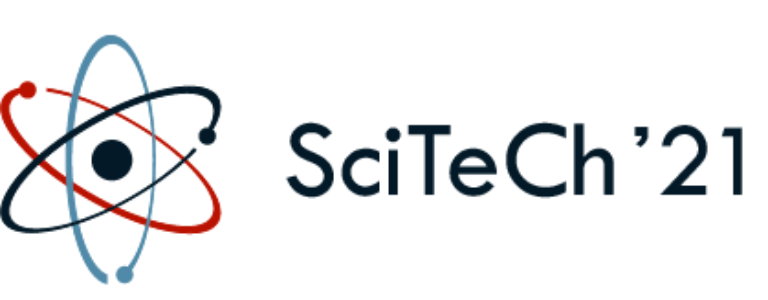
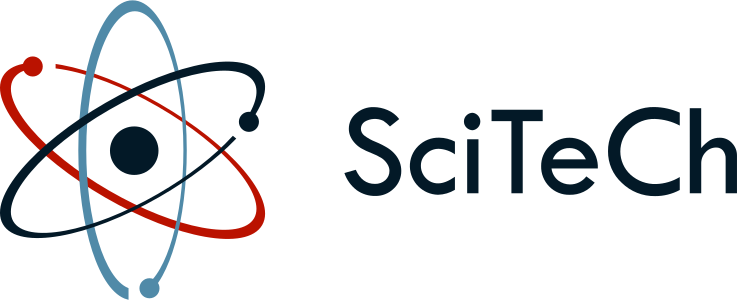
Aplicar Feedback 2
+ Nova logo SciTeCh
+ Alteração na navbar

Changed region(s): [[0.0, 0.0, 1.0, 1.0]]

diff --git a/index.html b/index.html
@@ -32,19 +32,20 @@
                     <li><a href="#who-we-are">About us</a></li>
                     <li><a href="#meet-our-members-title">Members</a></li>
                     <li><a href="#competitions">Competitions</a></li>
+                    <li><a href="#educational-involvement">Educational Involvement</a></li>
                     <li><a href="#local-events">Local Events</a></li>
                     <li><a href="#contacts">Contacts</a></li>
-                    <li><a href="">PT</a> &VerticalSeparator; <a href="">EN</a></li>
+                    <li><a href="">PT</a> &VerticalSeparator; <a href="/index.html">EN</a></li>
                 </ul>
             </div>
             
 
-            <button class="dropdown mobile-only" onclick="dropdown()" onblur="dropdown(200, true)">
+            <button class="dropdown navbar-mobile" onclick="dropdown()" onblur="dropdown(200, true)">
                 <div class="dropdown-icon"></div>
                 <div class="dropdown-icon"></div>
                 <div class="dropdown-icon"></div>
             </button>
-            <div id="dropdown-items" class="dropdown-items mobile-only">
+            <div id="dropdown-items" class="dropdown-items navbar-mobile">
                 <ul class="dropdown-links">
                     <li><a href="#who-we-are" onclick="dropdown(300, true)">About us</a></li>
                     <li><a href="#meet-our-members-title" onclick="dropdown(300, true)">Team</a></li>

diff --git a/style.css b/style.css
@@ -110,12 +110,6 @@ section#who-we-are {
 
 /* Large screen configurations */
 @media not screen and (max-width: 1200px) {
-    .mobile-only {
-        display: none !important;
-    }
-    .pc-only {
-        display: inherit;
-    }
     section {
 
         /* Limit maximum text width to prevent long lines */
@@ -126,19 +120,8 @@ section#who-we-are {
 }
 
 
-/* Large and medium screen configuration */
-@media not screen and (max-width: 800px) {
-    .mobile-only {
-        display: none !important;
-    }
-}
-
-
 /* Small screen configurations */
 @media screen and (max-width: 800px) {
-    .mobile-only {
-        display: inherit;
-    }
     section {
 
         /* Gives more space for content in small screens */
@@ -234,12 +217,20 @@ nav div.menu ul li:last-child a {
 
 
 /* Change navbar for small screens */
-@media screen and (max-width: 800px) {
+@media not screen and (max-width: 1100px) {
+    .navbar-mobile {
+        display: none !important;
+    }
+}
+@media screen and (max-width: 1100px) {
     nav div.menu {
         margin-right: 40px;
     }
-    nav div.menu ul li:nth-child(-n + 5) {
+    nav div.menu ul li:nth-child(-n + 6) {
         display: none;
+    }
+    .navbar-mobile {
+        display: inherit;
     }
 }
 
